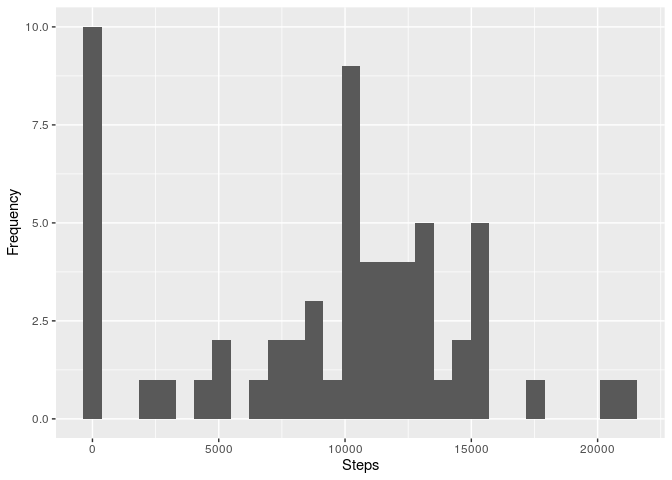
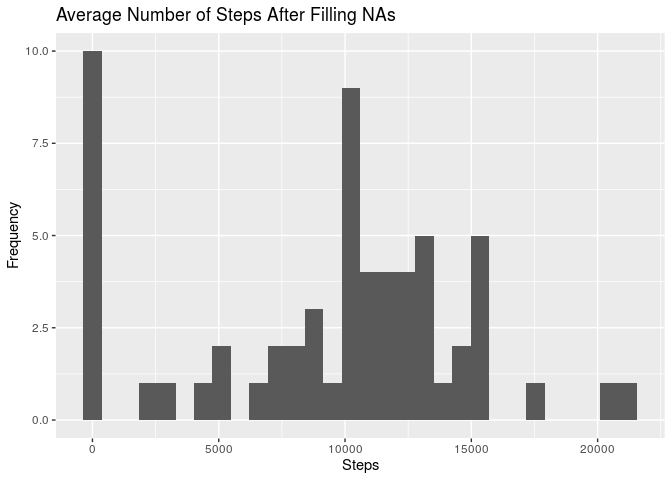
add Title in histogram after NA filled in

diff --git a/PA1_template.html b/PA1_template.html
@@ -430,9 +430,9 @@ fill_with_mean &lt;- function( df_by_date ){
 df_filled &lt;- fill_with_mean(df)
 #       4.4.1- Make a histogram of the total number of steps taken each day
 filled_sum_per_day = summarise_all( df_filled, sum,na.rm=TRUE )
-qplot( filled_sum_per_day$steps, geom=&quot;histogram&quot;, xlab=&quot;Steps&quot;, ylab=&quot;Frequency&quot; )</code></pre>
+qplot( filled_sum_per_day$steps, geom=&quot;histogram&quot;, xlab=&quot;Steps&quot;, ylab=&quot;Frequency&quot;, main=&quot;Average Number of Steps After Filling NAs&quot; )</code></pre>
 <pre><code>## `stat_bin()` using `bins = 30`. Pick better value with `binwidth`.</code></pre>
[2 lines of base64/hex data omitted]
 <pre class="r"><code>#       4.4.2- Calculate and report the mean and median total number of steps taken per day.
 filled_steps_mean &lt;- mean( filled_sum_per_day$steps )
 filled_steps_median &lt;- median( filled_sum_per_day$steps )</code></pre>

diff --git a/PA1_template.md b/PA1_template.md
@@ -92,7 +92,7 @@ fill_with_mean <- function( df_by_date ){
 df_filled <- fill_with_mean(df)
 #       4.4.1- Make a histogram of the total number of steps taken each day
 filled_sum_per_day = summarise_all( df_filled, sum,na.rm=TRUE )
-qplot( filled_sum_per_day$steps, geom="histogram", xlab="Steps", ylab="Frequency" )
+qplot( filled_sum_per_day$steps, geom="histogram", xlab="Steps", ylab="Frequency", main="Average Number of Steps After Filling NAs" )
 ```
 
 ```
